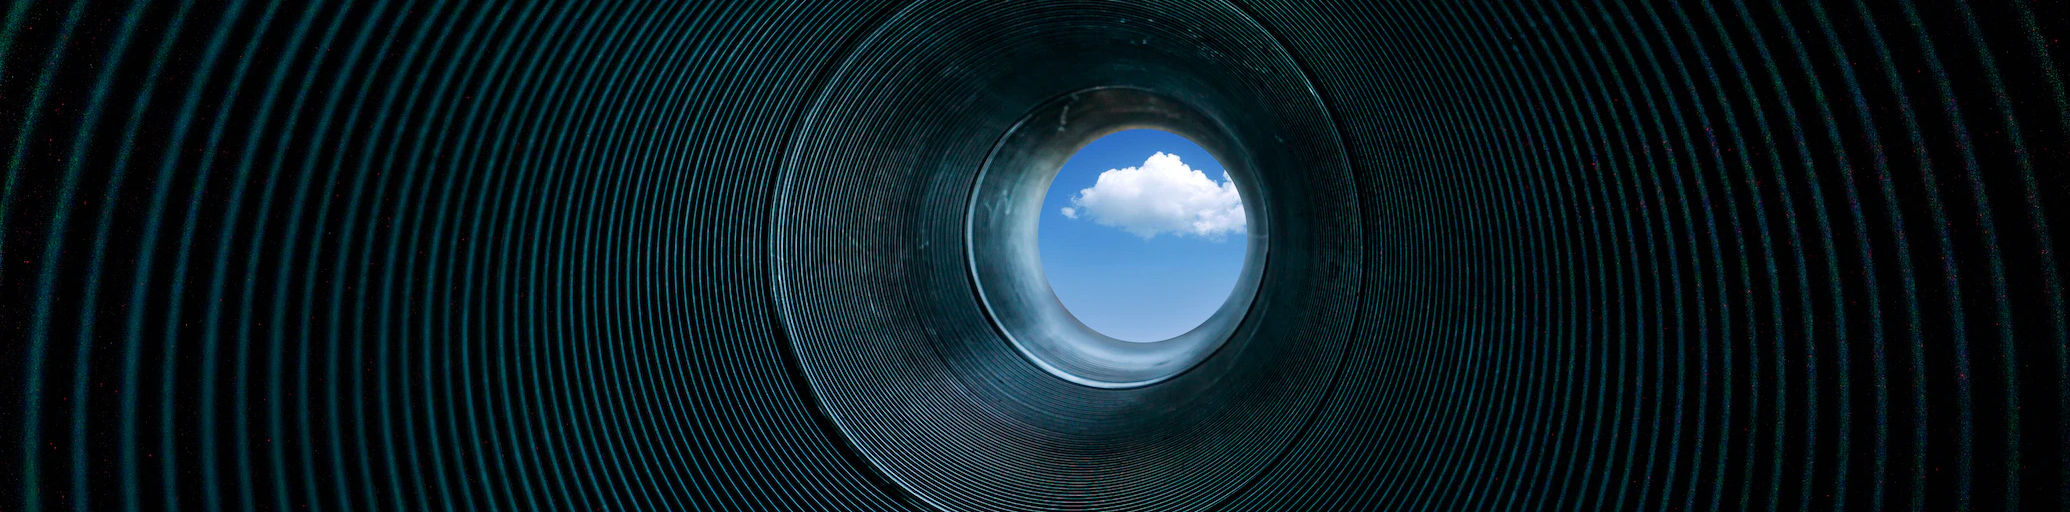
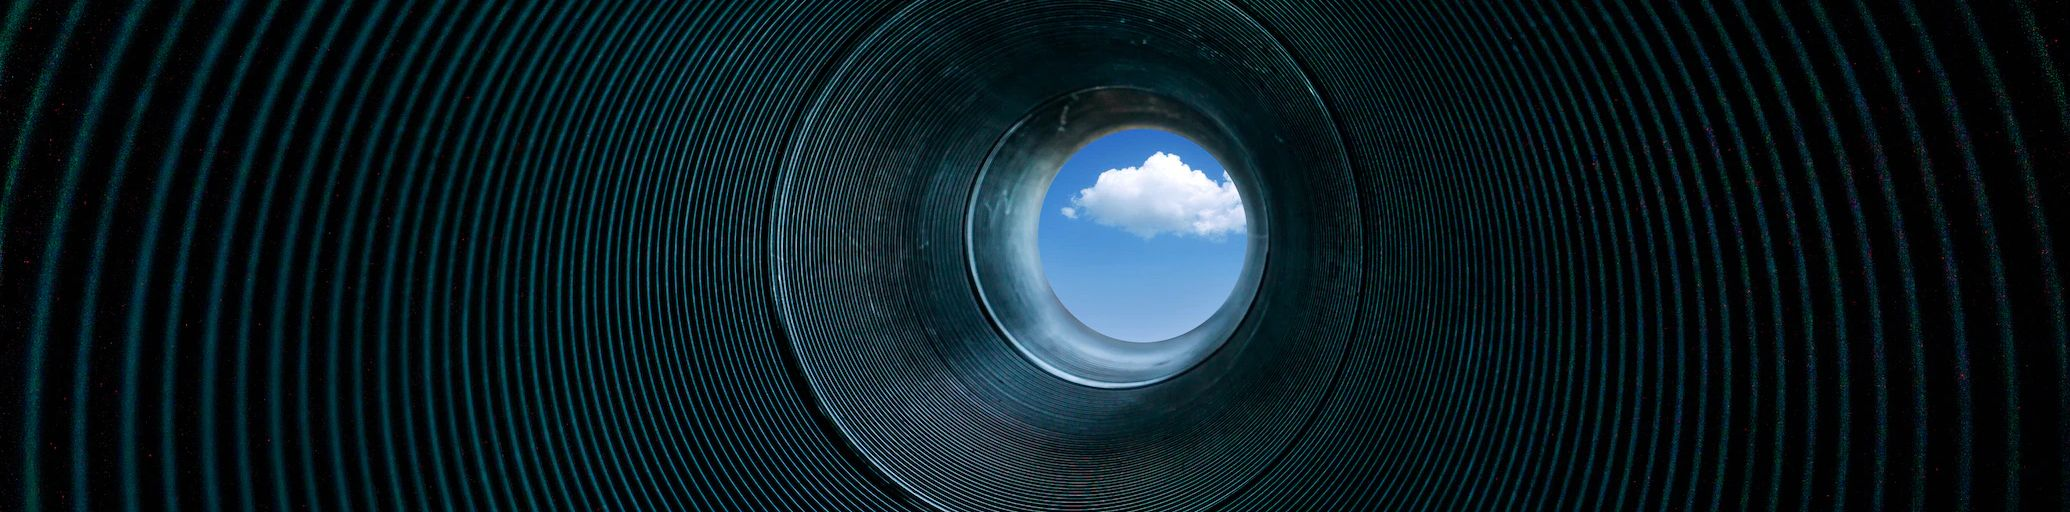
Technical optimizations: images, config, devcontainer
- Recompress header images (3.7 MB -> 0.5 MB, progressive JPEG q80)
- Add alt texts to header images
- Add url, lang and sitemap/remote-theme plugins to _config.yml
- Lazy-load YouTube embed, add title, replace frameborder with CSS
- Switch http:// links to https://
- Replace defunct Gitpod config with devcontainer / Codespaces
- Ignore Jekyll build caches and Gemfile.lock
- Fix typo "stehts" -> "stets"

Changed region(s): [[0.3401, 0.875, 0.4329, 1.0], [0.5874, 0.9688, 0.6184, 1.0], [0.371, 0.8125, 0.4019, 0.8438]]

diff --git a/docs/_includes/youtube.html b/docs/_includes/youtube.html
@@ -2,8 +2,8 @@
   .embed-container { position: relative; padding-bottom: 56.25%; height: 0; overflow: hidden; max-width: 100%; } 
   .embed-container iframe, 
   .embed-container object, 
-  .embed-container embed { position: absolute; top: 0; left: 0; width: 100%; height: 100%; }
+  .embed-container embed { position: absolute; top: 0; left: 0; width: 100%; height: 100%; border: 0; }
 </style>
 <div class='embed-container'>
-  <iframe src="https://www.youtube-nocookie.com/embed/{{ include.id }}" frameborder="0" allowfullscreen></iframe>
+  <iframe src="https://www.youtube-nocookie.com/embed/{{ include.id }}" title="{{ include.title | default: 'YouTube-Video' }}" loading="lazy" allow="encrypted-media; picture-in-picture" allowfullscreen></iframe>
 </div>

diff --git a/docs/index.md b/docs/index.md
@@ -3,11 +3,11 @@ layout: page
 title: Open Source an der Berner Fachhochschule
 ---
 
-[![](img/os.jpg)](https://unsplash.com/de/fotos/T7s_TnKO-dk)
+[![Blick durch eine Röhre auf blauen Himmel mit Wolke](img/os.jpg)](https://unsplash.com/de/fotos/T7s_TnKO-dk)
 
 # Einleitung
 
-Open Source Software (OSS) sind Programme, die unter einer [Open Source Lizenz](https://opensource.org/licenses/) veröffentlicht sind. Diese Lizenz erlaubt es, dass OSS einerseits beliebig kopiert werden kann und andererseits der Quellcode offen zur Verfügung steht und auch verändert werden darf. Somit ist OSS stehts lizenzkostenfrei und transparent einsehbar. **Für das Studium eignet sich OSS besonders gut, weil es viele kostenlose Programme gibt, die für Studierende und Mitarbeitende nützlich sind.** Auf dieser Website stehen zahlreiche Empfehlungen, Hintergrundinformationen und Hilfsmittel zur Verfügung, die den Einsatz von OSS im Studium an der Berner Fachhochschule erleichtern sollen. Es ist allerdings darauf hingewiesen, dass aufgrund der Vielzahl von OSS Produkten kein Endbenutzer-Support geleistet werden kann.
+Open Source Software (OSS) sind Programme, die unter einer [Open Source Lizenz](https://opensource.org/licenses/) veröffentlicht sind. Diese Lizenz erlaubt es, dass OSS einerseits beliebig kopiert werden kann und andererseits der Quellcode offen zur Verfügung steht und auch verändert werden darf. Somit ist OSS stets lizenzkostenfrei und transparent einsehbar. **Für das Studium eignet sich OSS besonders gut, weil es viele kostenlose Programme gibt, die für Studierende und Mitarbeitende nützlich sind.** Auf dieser Website stehen zahlreiche Empfehlungen, Hintergrundinformationen und Hilfsmittel zur Verfügung, die den Einsatz von OSS im Studium an der Berner Fachhochschule erleichtern sollen. Es ist allerdings darauf hingewiesen, dass aufgrund der Vielzahl von OSS Produkten kein Endbenutzer-Support geleistet werden kann.
 
 # Open Source - auf mehreren Ebenen
 

diff --git a/docs/contribute.md b/docs/contribute.md
@@ -4,7 +4,7 @@ title: Mitmachen & Starten
 permalink: /contribute
 ---
 
-[![](img/start.jpg)](https://unsplash.com/de/fotos/y5_mFlLMwJk)
+[![Laptop mit dem Schriftzug „Just start.“](img/start.jpg)](https://unsplash.com/de/fotos/y5_mFlLMwJk)
 
 # Startpunkte
 
@@ -13,14 +13,14 @@ Du möchtest Open source nicht nur nutzen, sondern aktiv an Projekten mitwirken 
 ## Open Source
 
 Aktuell unterhält die [BFH eine Reihe von öffentlichen s.g. Github-Organisationen](https://ossbenchmark.com/institutions/bfh) in denen bereits jede Menge Projekte veröffentlicht werden und wurden:
- - [github.com/**bfh**](http://github.com/bfh/)
- - [github.com/**BFH-InternetOfThings**](http://github.com/BFH-InternetOfThings/)
- - [github.com/**cpvrlab**](http://github.com/cpvrlab/)
- - [github.com/**digital-sustainability**](http://github.com/digital-sustainability/)
- - [github.com/**HAFL-WWI**](http://github.com/HAFL-WWI/)
- - [github.com/**iam-ictm**](http://github.com/iam-ictm/)
- - [github.com/**Lernstick**](http://github.com/Lernstick/)
- - [github.com/**virtuelleakademie**](http://github.com/virtuelleakademie/)
+ - [github.com/**bfh**](https://github.com/bfh/)
+ - [github.com/**BFH-InternetOfThings**](https://github.com/BFH-InternetOfThings/)
+ - [github.com/**cpvrlab**](https://github.com/cpvrlab/)
+ - [github.com/**digital-sustainability**](https://github.com/digital-sustainability/)
+ - [github.com/**HAFL-WWI**](https://github.com/HAFL-WWI/)
+ - [github.com/**iam-ictm**](https://github.com/iam-ictm/)
+ - [github.com/**Lernstick**](https://github.com/Lernstick/)
+ - [github.com/**virtuelleakademie**](https://github.com/virtuelleakademie/)
  - [github.com/**bern-movement-lab**](https://github.com/bern-movement-lab/)
  - [gitlab.ti.bfh.ch/**oss**](https://gitlab.ti.bfh.ch/oss/)
 

diff --git a/docs/contact.md b/docs/contact.md
@@ -4,11 +4,11 @@ title: Community & Kontakt
 permalink: /contact
 ---
 
-[![](img/community.jpg)](https://unsplash.com/de/fotos/LjqARJaJotc)
+[![Mehrere Hände nebeneinander auf einem Holztisch](img/community.jpg)](https://unsplash.com/de/fotos/LjqARJaJotc)
 
 # bfh.ch/opensource
 
-Allgemeine Kontaktinformationen sind ebenfalls auf den offiziellen Seiten der BFH zu finden. Hauptansprechpartner zum Thema ["Open Source @ BFH"](https://bfh.ch/opensource) ist [Markus Tiede](https://www.bfh.ch/de/ueber-die-bfh/personen/wqt4t23oxq3q/) vom [Institut Public Sector Transformation](http://bfh.ch/ipst) am Departement Wirtschaft - Kontakt gerne auch [direkt per eMail](mailto:opensource[at]bfh.ch).
+Allgemeine Kontaktinformationen sind ebenfalls auf den offiziellen Seiten der BFH zu finden. Hauptansprechpartner zum Thema ["Open Source @ BFH"](https://bfh.ch/opensource) ist [Markus Tiede](https://www.bfh.ch/de/ueber-die-bfh/personen/wqt4t23oxq3q/) vom [Institut Public Sector Transformation](https://bfh.ch/ipst) am Departement Wirtschaft - Kontakt gerne auch [direkt per eMail](mailto:opensource[at]bfh.ch).
 
 # Community 
 

diff --git a/README.md b/README.md
@@ -1,5 +1,7 @@
 # bfh.github.io
 
-[![Open IDE](https://gitpod.io/button/open-in-gitpod.svg)](https://gitpod.io#https://github.com/bfh/bfh.github.io)
+[![Open in GitHub Codespaces](https://github.com/codespaces/badge.svg)](https://codespaces.new/bfh/bfh.github.io)
 
 Github Pages Repository
+
+Lokal entwickeln: Repo in VS Code mit der Dev-Containers-Erweiterung öffnen („Reopen in Container“) oder einen Codespace starten. Die Seite läuft dann unter http://localhost:4000.

diff --git a/docs/use.md b/docs/use.md
@@ -4,7 +4,7 @@ title: Nutzen & Anwenden
 permalink: /use
 ---
 
-[![](img/use.jpg)](https://unsplash.com/de/fotos/_94HLr_QXo8)
+[![Hand hält einen Kompass vor einem Wald](img/use.jpg)](https://unsplash.com/de/fotos/_94HLr_QXo8)
 
 # Allgemeines
 
